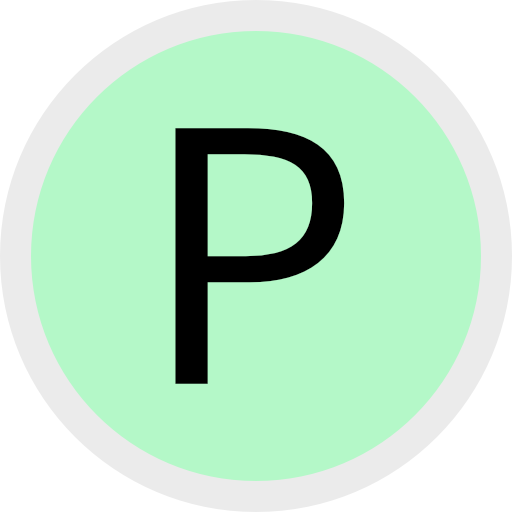
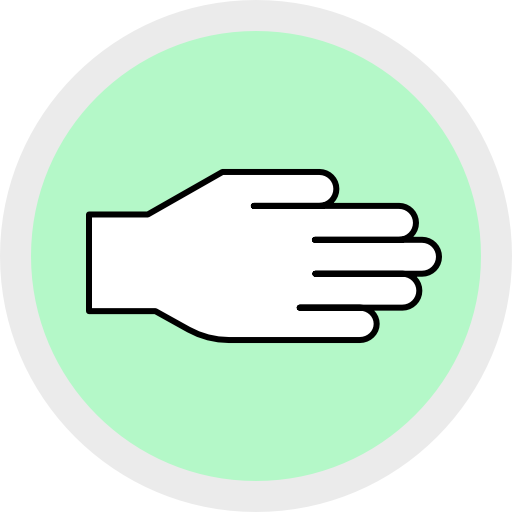
Images Added/Back Button Adjusted/ Layout
New RPS images added.
Back button linked to new website.
Layout adjusted for viewport

Changed region(s): [[0.1562, 0.25, 0.875, 0.75]]

diff --git a/index.html b/index.html
@@ -29,46 +29,42 @@
 </head>
 <body>
 
-    <div id="wrapper">
-
-        <div id="mainGame">
-            <button class="backBtn" href="http://www.lauratodddesign.com">< Back to Main Site</button>
-            <h1 id="rpstitle">Rock / Paper / Scissors</h1>
-          
-            <h3 class="score">
-                <p>current winning streak <span id="currentStreak"></span></p>
-                <p>top winning streak<span id="topStreak"></span></p>
-            </h3>
-
-            <div class="col1">
-                <h2 class="colTitle">YOU</h2>        
-            </div>
-            <div class="col2">
-                <h2 class="colTitle">OPPONENT</h2>
-            </div>
-            
-            
-            <div id="rpsmodal">
-                <div id="resultsCon">
-                    <p id="commentary"></p>
-                    <p id="result"></p>
-                    <button id="resetBtn">Play again</button>
-                </div>
-            </div>
+    <div id="mainGame">
+        <a class="backBtn" href="http://www.lauratodddesign.com">< Back to Main Site</a>
+        <h1 id="rpstitle">Rock / Paper / Scissors</h1>
         
-            <div class="options">
-            <img class="optionImg" src="https://lauratoddcode.github.io/rock-paper-scissors/images/rock.png" id="rock">
-            <img class="optionImg" src="https://lauratoddcode.github.io/rock-paper-scissors/images/paper.png" id="paper">
-            <img class="optionImg" src="https://lauratoddcode.github.io/rock-paper-scissors/images/scissors.png" id="scissors">
-            </div>
-        
-            <div class="response">
-            <img class="opponentsImg" src="https://lauratoddcode.github.io/rock-paper-scissors/images/question.png">
-            </div>
+        <h3 class="score">
+            <p>current winning streak <span id="currentStreak"></span></p>
+            <p>top winning streak<span id="topStreak"></span></p>
+        </h3>
 
-            <h3 id="instructions">Select your option to play</h3>
+        <div class="col1">
+            <h2 class="colTitle">YOU</h2>        
+        </div>
+        <div class="col2">
+            <h2 class="colTitle">OPPONENT</h2>
+        </div>
+        
+        
+        <div id="rpsmodal">
+            <div id="resultsCon">
+                <p id="commentary"></p>
+                <p id="result"></p>
+                <button id="resetBtn">Play again</button>
+            </div>
+        </div>
+    
+        <div class="options">
+        <img class="optionImg" src="https://lauratoddcode.github.io/rock-paper-scissors/images/rock.png" id="rock">
+        <img class="optionImg" src="https://lauratoddcode.github.io/rock-paper-scissors/images/paper.png" id="paper">
+        <img class="optionImg" src="https://lauratoddcode.github.io/rock-paper-scissors/images/scissors.png" id="scissors">
+        </div>
+    
+        <div class="response">
+        <img class="opponentsImg" src="https://lauratoddcode.github.io/rock-paper-scissors/images/question.png">
         </div>
 
+        <h3 id="instructions">Select your option to play</h3>
     </div>
 
     <script src="https://ajax.googleapis.com/ajax/libs/jquery/3.5.1/jquery.min.js"></script>

diff --git a/style.css b/style.css
@@ -28,16 +28,12 @@ html, body {
 	font-size: 1.15em;
 	font-family: 'Work Sans', sans-serif;
 	margin: 20px 0 0 0;
+	display: flex;
+	align-items: center;
+	justify-content: center;
 }
 
 /* ROCK PAPER SCISSORS - DESKTOP */
-#wrapper {
-	display: grid;
-	grid-template-columns: 30px 1fr 1fr 1fr 30px;
-	grid-template-rows: 70px 1fr 1fr 1fr 88px;
-	grid-gap: 10px;
-	height: 100%;
-}
 
 #mainGame {
 	z-index: 0;
@@ -49,7 +45,11 @@ html, body {
 	grid-row: 3 / 4;
 	color: black;
 	border-radius: 1em;
-	margin: 0 20px;
+	margin: 20px;	
+	min-height: calc(100vh - 40px);
+	min-height: -o-calc(100vh - 40px); 
+	min-height: -webkit-calc(100vh - 40px); 
+	min-height: -moz-calc(100vh - 40px);
   }
   
   #rpstitle {
@@ -177,10 +177,6 @@ html, body {
 
 	/* ROCK PAPER SCISSORS - IPAD */
 
-	#wrapper {
-		grid-template-rows: 10px 1fr 1fr 1fr 6.5em;
-	}
-
 	.colTitle {
 		margin: 0 0 5px 0;
 	}
@@ -214,9 +210,6 @@ html, body {
 	}
 
 	/* ROCK PAPER SCISSORS - MOBILE */
-	#wrapper {
-		grid-template-rows: 10px 1fr 1fr 1fr 6.5em;
-	}
 
 	#mainGame {
 		grid-row: 2 / 3;
